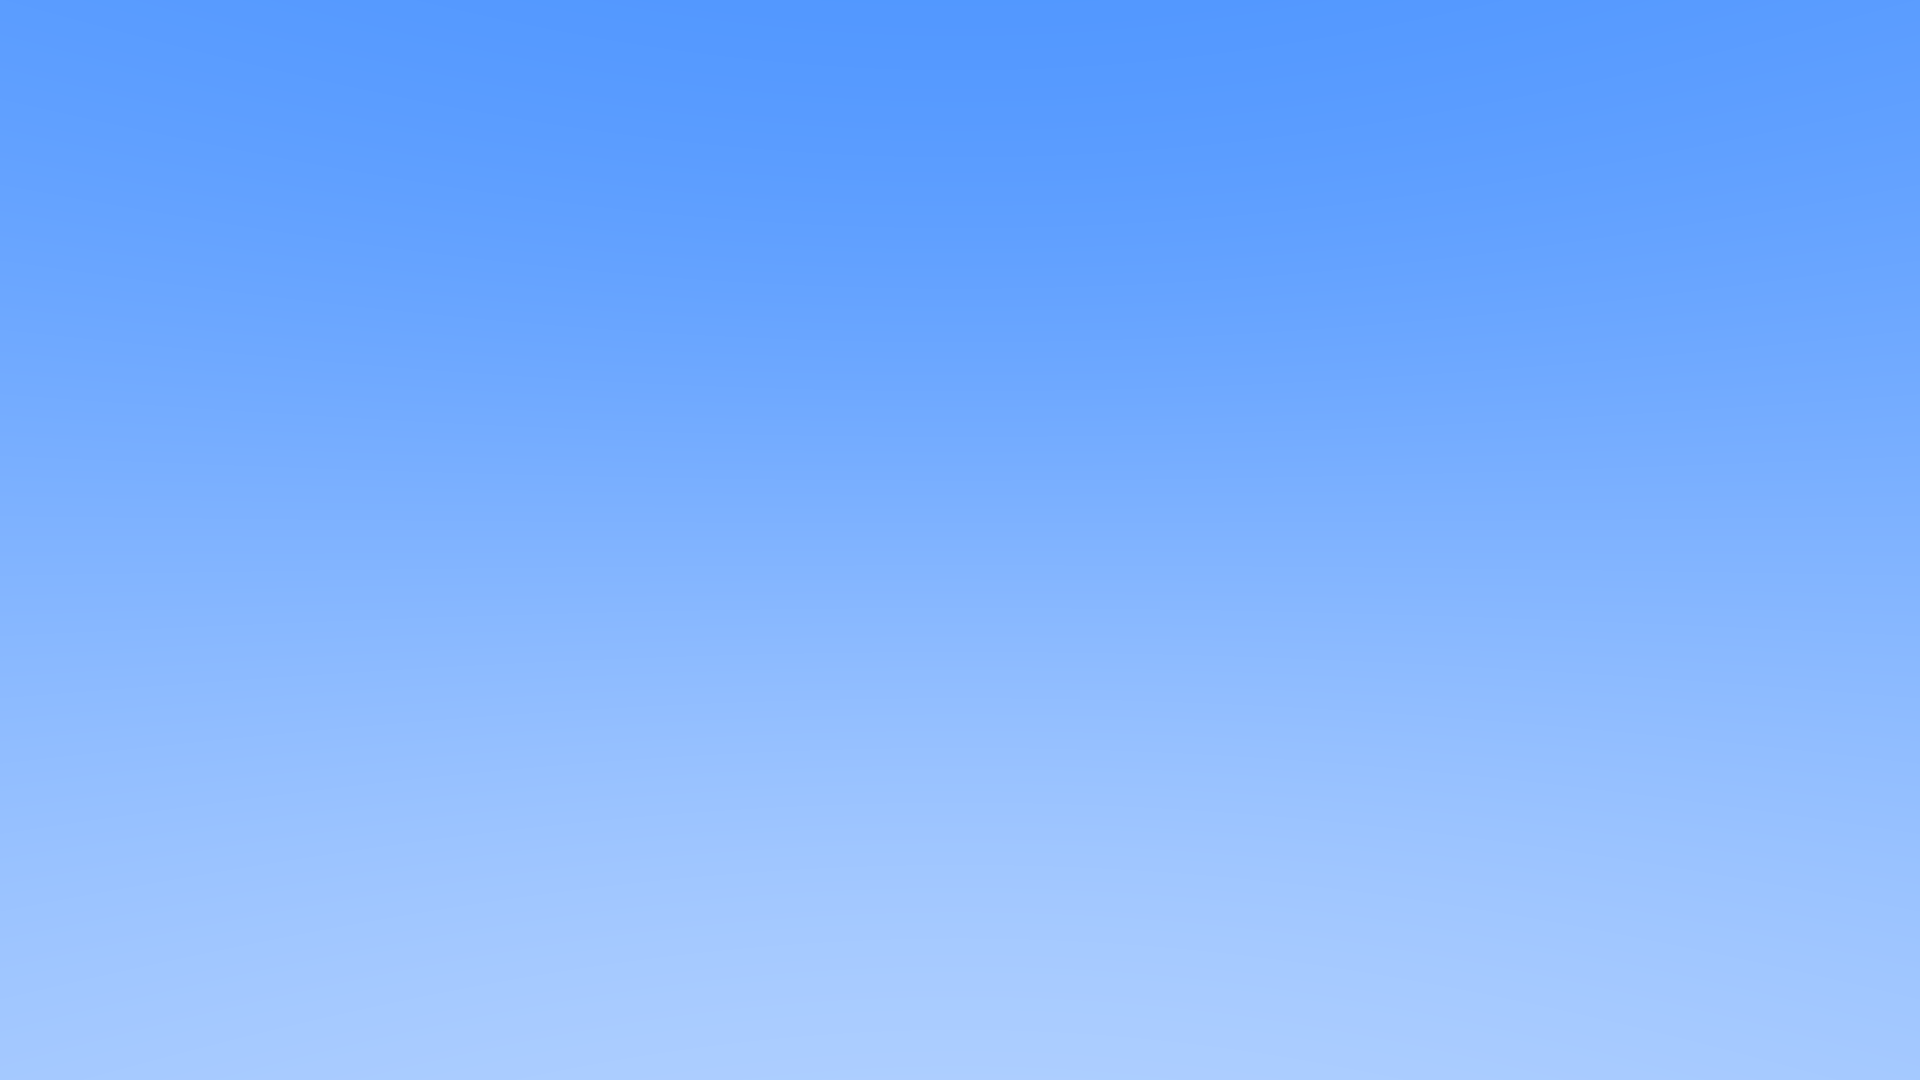
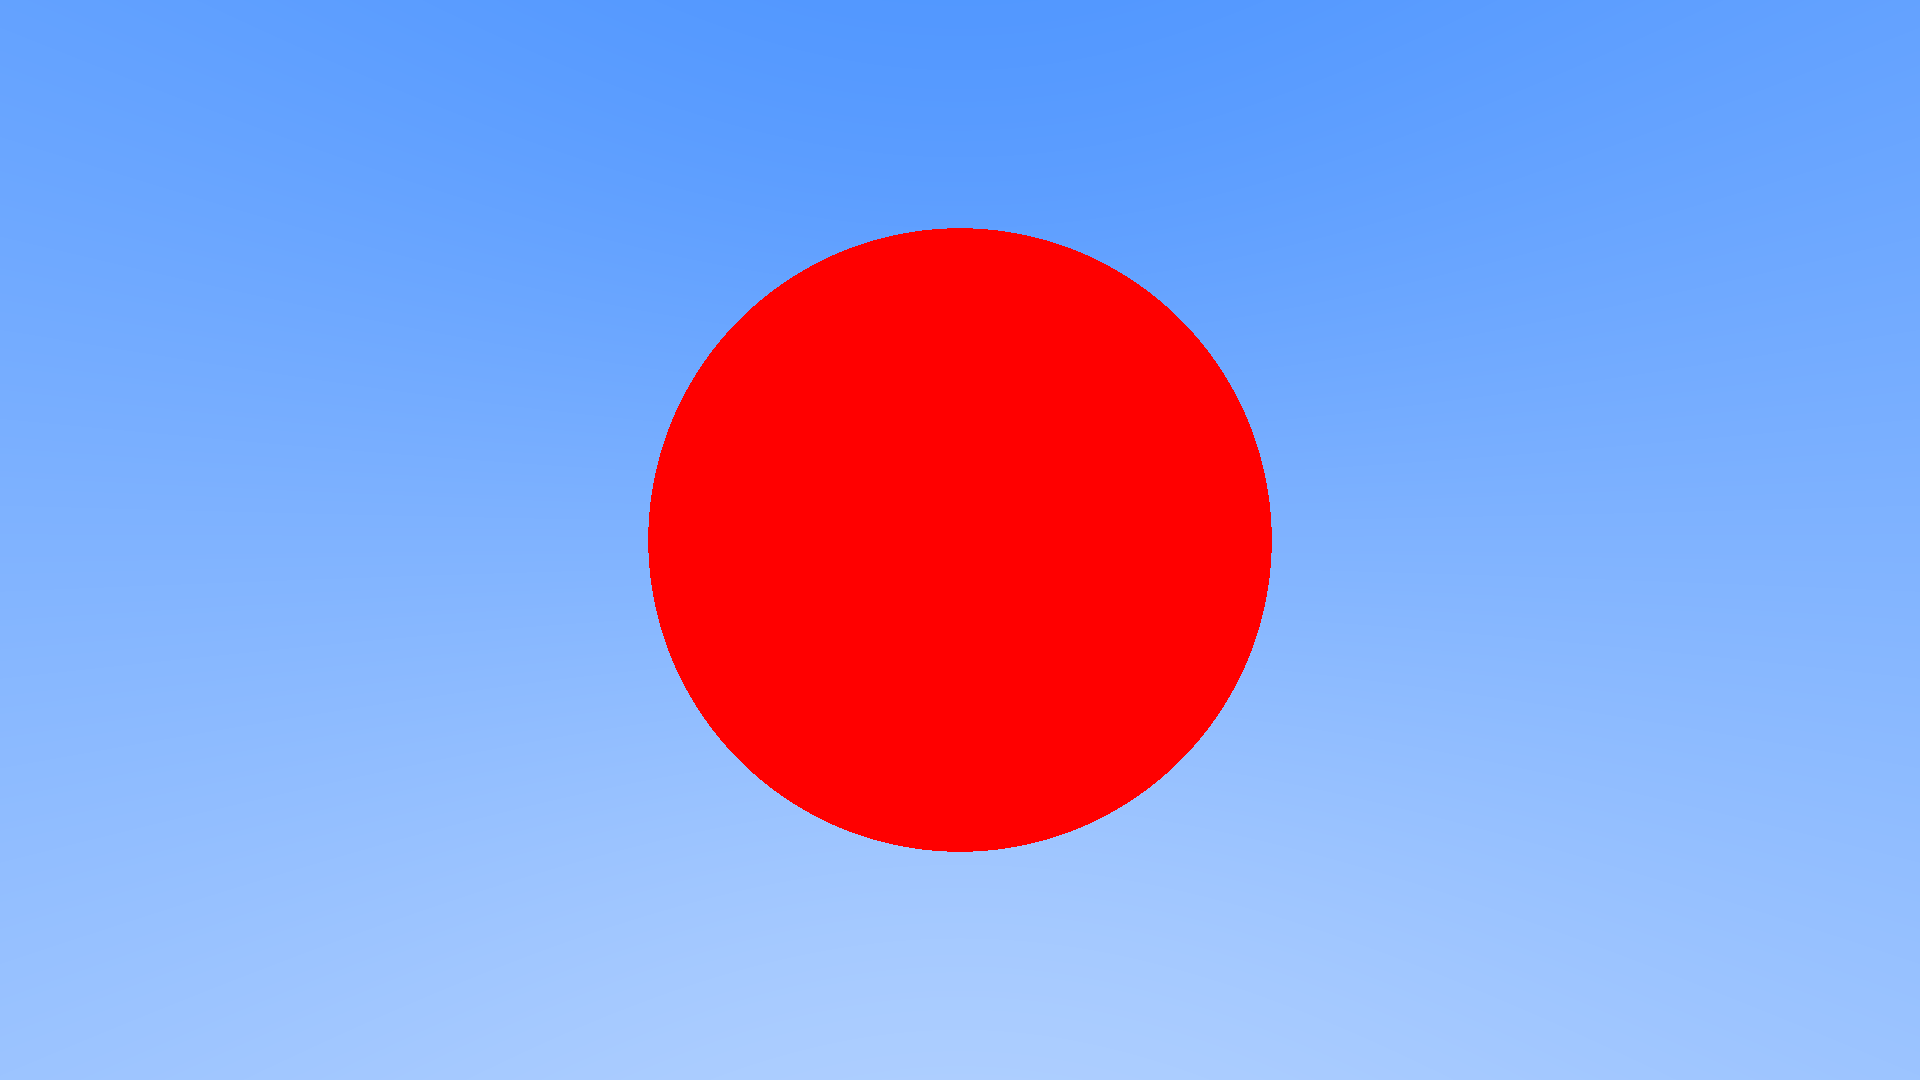
fixed aspect ratio problem

Changed region(s): [[0.3125, 0.2139, 0.6875, 0.7944]]

diff --git a/hello/hello_world.go b/hello/hello_world.go
@@ -57,7 +57,7 @@ func main() {
 	camera_center := glm.Vec3{0.0, 0.0, 0.0}
 
 	const viewportHeight = 2.0
-	const viewportWidth = (image_width / image_width) * viewportHeight
+	const viewportWidth = (float32(image_width) / float32(image_height)) * viewportHeight
 
 	viewport_u := glm.Vec3{viewportWidth, 0, 0}
 	viewport_u_half := viewport_u.Mul(0.5)
@@ -134,6 +134,11 @@ func writeColours(image *image.NRGBA, x, y int, pixel glm.Vec3) {
 }
 
 func RayColour(r *Ray) glm.Vec3 {
+
+	if hit_sphere(glm.Vec3{0, 0, -1}, 0.5, r) {
+		return glm.Vec3{1, 0, 0}
+	}
+
 	ray_dir := r.Dir()
 	unit_dir := ray_dir.Normalized()
 
@@ -145,4 +150,13 @@ func RayColour(r *Ray) glm.Vec3 {
 	blue = blue.Mul(a)
 
 	return white.Add(&blue)
+}
+
+func hit_sphere(center glm.Vec3, radius float32, r *Ray) bool {
+	oc := r.Origin.Sub(&center)
+	a := r.Direction.Dot(&r.Direction)
+	b := 2.0 * oc.Dot(&r.Direction)
+	c := oc.Dot(&oc) - radius*radius
+	discriminant := b*b - 4*a*c
+	return discriminant > 0
 }
